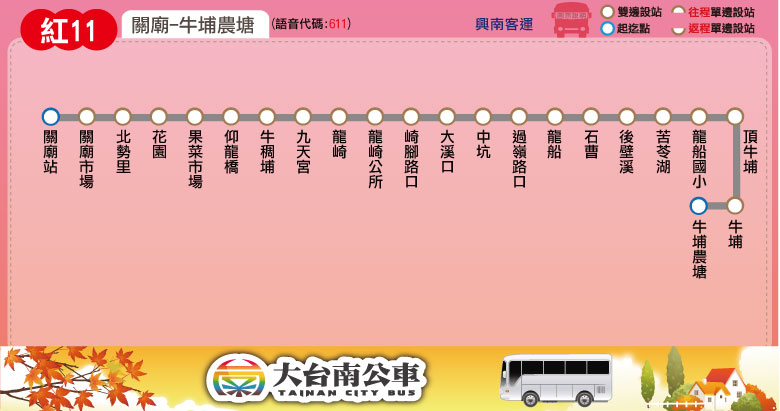
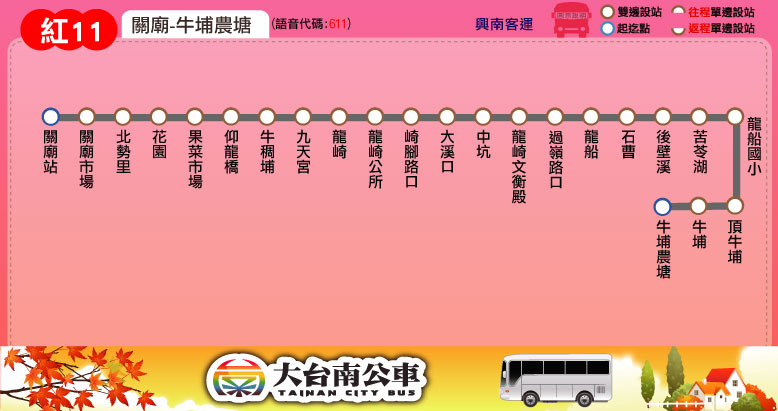
新增站點：紅11、紅12 (新增龍崎文衡殿)

Changed region(s): [[0.0, 0.0, 1.0, 1.0]]

diff --git a/route/fare_and_time/red_11.js b/route/fare_and_time/red_11.js
@@ -3,12 +3,11 @@ red_11_interval_stop = [
 ["關廟站","關廟市場"], // 關廟
 ["北勢里","花園","果菜市場","仰龍橋","牛稠埔","九天宮"], // 花園
 ["龍崎","龍崎公所","崎腳路口","大溪口"], // 龍崎
-["中坑"], // 中坑
+["中坑","龍崎文衡殿"], // 中坑
 ["過嶺路口","龍船"], // 龍船
 ["石曹","後壁溪","苦苓湖"], // 苦苓湖
 ["龍船國小","頂牛埔","牛埔","牛埔農塘"] // 牛埔農塘
 ];
-red_11_stop_time_consume = [0,1,2,4,5,6,7,8,9,10,11,12,13,14,15,17,18,19,20,22,24,25];
 red_11_fare = [
 [26],
 [26,26],

diff --git a/route/fare_and_time/red_12.js b/route/fare_and_time/red_12.js
@@ -3,12 +3,11 @@ red_12_interval_stop = [
 ["關廟站","關廟市場"], // 關廟
 ["北勢里","花園","果菜市場","仰龍橋","牛稠埔","九天宮"], // 花園
 ["龍崎","龍崎公所","崎腳路口","大溪口"], // 龍崎
-["中坑"], // 中坑
+["中坑","龍崎文衡殿"], // 中坑
 ["過嶺路口","龍船"], // 龍船
 ["石曹","後壁溪","苦苓湖"], // 苦苓湖
 ["五間","烏山腳路口","烏山腳","烏山頭"] // 烏山頭
 ];
-red_12_stop_time_consume = [0,1,2,4,5,6,7,8,9,10,11,12,14,14,15,17,18,19,20,21,22,23];
 red_12_fare = [
 [26],
 [26,26],
